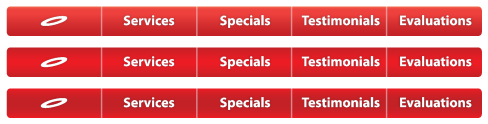
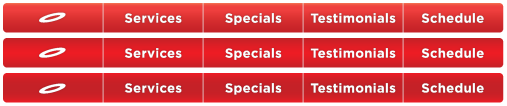
Updated the art for the menu bars. Updated the CSS accordingly.

diff --git a/public/stylesheets/navigation.css b/public/stylesheets/navigation.css
@@ -102,94 +102,94 @@
 #operator_menubar { margin: 18px auto; z-index: 9998; position: relative; top: 40px; }
 #operator_menubar { margin: 0px; padding: 0; }
 #operator_menubar li { display: inline;}
-#operator_menubar li a { float: left; width: 94px; height: 0px; padding-top: 35px; overflow: hidden; }
-#operator_menubar li a.home, #operator_menubar li a.testimonials { width: 99px; }
-#operator_menubar li a { background-image: url(/images/nav/area_menubar.png); _background-image: url(/images/nav/area_menubar.gif); background-repeat: no-repeat;}
+#operator_menubar li a { float: left; width: 100px; height: 0px; padding-top: 35px; overflow: hidden; }
+#operator_menubar li a.home, #operator_menubar li a.settings { width: 103px; }
+#operator_menubar li a { background-image: url(/images/nav/operator_menubar.png); _background-image: url(/images/nav/operator_menubar.gif); background-repeat: no-repeat;}
 
  /*BUTTONS*/ 
 #operator_menubar li a.home { background-position: 0px 0px; }
-#operator_menubar li a.services { background-position: -100px -0px; }
-#operator_menubar li a.specials { background-position: -198px -0px; }
-#operator_menubar li a.evaluations { background-position: -296px -0px; }
-#operator_menubar li a.testimonials { background-position: -394px -0px; }
+#operator_menubar li a.services { background-position: -103px -0px; }
+#operator_menubar li a.specials { background-position: -203px -0px; }
+#operator_menubar li a.testimonials { background-position: -303px -0px; }
+#operator_menubar li a.settings { background-position: -403px -0px; }
 
 /* OVER STATES */
 #operator_menubar li a:hover.home { background-position: 0px -35px;}
-#operator_menubar li a:hover.services { background-position: -100px -35px; }
-#operator_menubar li a:hover.specials { background-position: -197px -35px; }
-#operator_menubar li a:hover.evaluations { background-position: -292px -35px; }
-#operator_menubar li a:hover.testimonials { background-position: -387px -35px; }
+#operator_menubar li a:hover.services { background-position: -103px -35px; }
+#operator_menubar li a:hover.specials { background-position: -203px -35px; }
+#operator_menubar li a:hover.testimonials { background-position: -303px -35px; }
+#operator_menubar li a:hover.settings { background-position: -403px -35px; }
 
 /* PRESSED STATES */
 #operator_menubar li a:current.home { background-position: 0px -70px; }
-#operator_menubar li a:current.services { background-position: -102px -70px; }
-#operator_menubar li a:current.specials { background-position: -197px -70px; }
-#operator_menubar li a:current.evaluations { background-position: -292px -70px; }
-#operator_menubar li a:current.testimonials { background-position: -387px -70px; }
+#operator_menubar li a:current.services { background-position: -103px -70px; }
+#operator_menubar li a:current.specials { background-position: -203px -70px; }
+#operator_menubar li a:current.testimonials { background-position: -303px -70px; }
+#operator_menubar li a:current.settings { background-position: -403px -70px; }
 /* @end */
 
 
 /* @group Home Menubar */
 
-#home_menubar { width: 490px; margin: 18px auto; position: absolute; z-index: 9998; top: 25px; left: 280px; }
+#home_menubar { width: 520px; margin: 18px auto; position: absolute; z-index: 9998; top: 25px; left: 280px; }
 #home_menubar { margin: 0px; padding: 0; }
 #home_menubar li { display: inline;}
-#home_menubar li a { float: left; width: 92px; height: 0; padding-top: 35px; overflow: hidden; }
-#home_menubar li a.home, #home_menubar li a.contact_us { width: 99px; }
+#home_menubar li a { float: left; width: 100px; height: 0; padding-top: 35px; overflow: hidden; }
+#home_menubar li a.home, #home_menubar li a.contact { width: 103px; }
 #home_menubar li a { background-image: url(/images/nav/home_menubar.png); _background-image: url(/images/nav/home_menubar.gif); background-repeat: no-repeat;}
 
  /*BUTTONS*/ 
-#home_menubar li a.home { background-position: 0px -1px; }
-#home_menubar li a.franchises { background-position: -102px -1px; }
-#home_menubar li a.services { background-position: -197px -1px; }
-#home_menubar li a.testimonials { background-position: -292px -1px; }
-#home_menubar li a.contact_us { background-position: -387px -1px; }
+#home_menubar li a.home { background-position: 0px 0px; }
+#home_menubar li a.services { background-position: -103px 0px; }
+#home_menubar li a.testimonials { background-position: -203px 0px; }
+#home_menubar li a.franchising { background-position: -303px 0px; }
+#home_menubar li a.contact { background-position: -403px 0px; }
 
 /* OVER STATES */
-#home_menubar li a:hover.home { background-position: 0px -36px;}
-#home_menubar li a:hover.franchises { background-position: -102px -36px; }
-#home_menubar li a:hover.services { background-position: -197px -36px; }
-#home_menubar li a:hover.testimonials { background-position: -292px -36px; }
-#home_menubar li a:hover.contact_us { background-position: -387px -36px; }
+#home_menubar li a:hover.home { background-position: 0px -35px;}
+#home_menubar li a:hover.services { background-position: -103px -35px; }
+#home_menubar li a:hover.testimonials { background-position: -203px -35px; }
+#home_menubar li a:hover.franchising { background-position: -303px -35px; }
+#home_menubar li a:hover.contact { background-position: -403px -35px; }
 
 /* PRESSED STATES */
-#home_menubar li a:current.home { background-position: 0px -4px; }
-#home_menubar li a:current.franchises { background-position: -102px -74px; }
-#home_menubar li a:current.services { background-position: -197px -74px; }
-#home_menubar li a:current.testimonials { background-position: -292px -74px; }
-#home_menubar li a:current.contact_us { background-position: -387px -74px; }
+#home_menubar li a:current.home { background-position: 0px -70px; }
+#home_menubar li a:current.services { background-position: -103px -70px; }
+#home_menubar li a:current.testimonials { background-position: -203px -70px; }
+#home_menubar li a:current.franchising { background-position: -303px -70px; }
+#home_menubar li a:current.contact { background-position: -403px -70px; }
 
 /* @end */
 
 
 /* Area Menubar */
-#area_menubar { margin: 18px auto; z-index: 9998; position: absolute; left: 220px; top: 25px; }
+#area_menubar { margin: 18px auto; z-index: 9998; position: absolute; left: 215px; top: 25px; }
 #area_menubar { margin: 0px; padding: 0; }
 #area_menubar li { display: inline;}
-#area_menubar li a { float: left; width: 92px; height: 0px; padding-top: 35px; overflow: hidden; }
-#area_menubar li a.home, #area_menubar li a.reviews { width: 99px; }
+#area_menubar li a { float: left; width: 100px; height: 0px; padding-top: 35px; overflow: hidden; }
+#area_menubar li a.home, #area_menubar li a.reviews { width: 103px; }
 #area_menubar li a { background-image: url(/images/nav/area_menubar.png); _background-image: url(/images/nav/area_menubar.png); background-repeat: no-repeat;}
 
  /*BUTTONS*/ 
-#area_menubar li a.home { background-position: 0px -2px; }
-#area_menubar li a.services { background-position: -102px -2px; }
-#area_menubar li a.specials { background-position: -197px -2px; }
-#area_menubar li a.testimonials { background-position: -292px -2px; }
-#area_menubar li a.reviews { background-position: -387px -2px; }
+#area_menubar li a.home { background-position: 0px 0px; }
+#area_menubar li a.services { background-position: -103px 0px; }
+#area_menubar li a.specials { background-position: -203px 0px; }
+#area_menubar li a.testimonials { background-position: -303px 0px; }
+#area_menubar li a.reviews { background-position: -403px 0px; }
 
 /* OVER STATES */
-#area_menubar li a:hover.home { background-position: 0px -72px;}
-#area_menubar li a:hover.services { background-position: -102px -72px; }
-#area_menubar li a:hover.specials { background-position: -197px -72px; }
-#area_menubar li a:hover.testimonials { background-position: -292px -72px; }
-#area_menubar li a:hover.reviews { background-position: -387px -72px; }
+#area_menubar li a:hover.home { background-position: 0px -35px;}
+#area_menubar li a:hover.services { background-position: -103px -35px; }
+#area_menubar li a:hover.specials { background-position: -203px -35px; }
+#area_menubar li a:hover.testimonials { background-position: -303px -35px; }
+#area_menubar li a:hover.reviews { background-position: -403px -35px; }
 
 /* PRESSED STATES */
-#area_menubar li a:current.home { background-position: 0px -74px; }
-#area_menubar li a:current.services { background-position: -102px -74px; }
-#area_menubar li a:current.specials { background-position: -197px -74px; }
-#area_menubar li a:current.testimonials { background-position: -292px -74px; }
-#area_menubar li a:current.reviews { background-position: -387px -74px; }
+#area_menubar li a:current.home { background-position: 0px -70px; }
+#area_menubar li a:current.services { background-position: -103px -70px; }
+#area_menubar li a:current.specials { background-position: -203px -70px; }
+#area_menubar li a:current.testimonials { background-position: -303px -70px; }
+#area_menubar li a:current.reviews { background-position: -403px -70px; }
 
 /* CURRENT STATES */
 /*#area_menubar li a:current.home { background-position: 0px -123px; }

diff --git a/public/stylesheets/main.css b/public/stylesheets/main.css
@@ -266,17 +266,18 @@ label {
 	height: 160px;
 	width: 965px;
 	background: url(/images/nav/header.png) no-repeat;
+	margin-bottom: 10px;
 }
 
 #contact {
 	color: #fff;
 	position: absolute;
-	right: 10px;
+	right: 0px;
 	top: 15px;
 }
 
 #contact .phone {
-	font: 30px/40px Helvetica, Arial, Verdana, sans-serif;
+	font: 28px/40px Helvetica, Arial, Verdana, sans-serif;
 }
 
 #contact .name {
